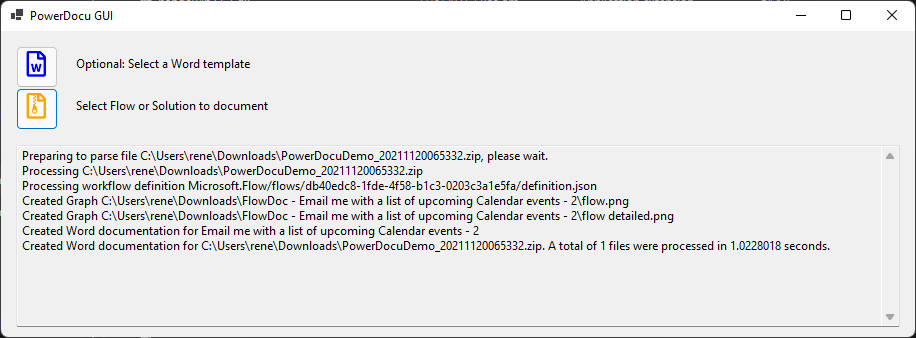
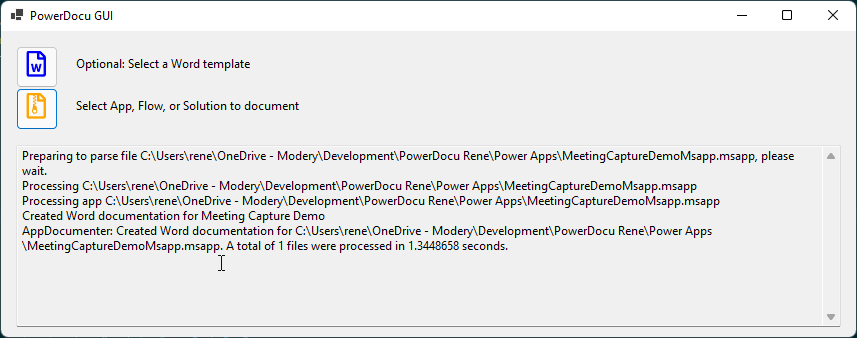
Documentation for v.0.7.0

diff --git a/README.md b/README.md
@@ -1,15 +1,22 @@
 # PowerDocu
-After you have built a Flow in Power Automate, you may consider documenting it as to allow others to get a better understanding of how it works, to ensure that any specific configuration in it is kept somewhere else as well, or for other reasons. However, manually documenting the technical implementation can be quite time consuming.
+After you have built a Flow in Power Automate or a canvas app in Power Apps, you may consider documenting it as to allow others to get a better understanding of how it works, to ensure that any specific configuration in it is kept somewhere else as well, or for other reasons. However, manually documenting the technical implementation can be quite time consuming.
 
-This is where **FlowDocumenter** can help!
+This is where **PowerDocu** can help!
 
-Currently, this repository contains a solution to document Power Automate Flows, called **FlowDocumenter**. FlowDocumenter allows the automatic generation of technical documentation based on a provided exported Flow package or an exported Solution package.
+PowerDocu contains two console applications called **FlowDocumenter** and **AppDocumenter**, as well as a graphical user interface to easily perform documentations. FlowDocumenter allows the automatic generation of technical documentation based on a provided exported Flow package or an exported Solution package, and AppDocumenter does the same for exported Power Apps canvas app. The GUI application handles both types.
 
 ![PowerDocu.GUI](Images/PowerDocu.GUI.png)
 
-![Example of generated Word documentation](Images/Weather-Flow-Documentation-1.png)
-![Example of generated Word documentation](Images/Weather-Flow-Documentation-2.png)
+**Example of a documented Flow:**
 
+![Example of generated Flow Word documentation](Images/Weather-Flow-Documentation-1.png)
+![Example of generated Flow Word documentation](Images/Weather-Flow-Documentation-2.png)
+
+**Example of a documented Power App:**
+
+![Example of generated app Word documentation](Images/MeetingCaptureApp-Documentation-1.png)
+![Example of generated app Word documentation](Images/MeetingCaptureApp-Documentation-2.png)
+![Example of generated app Word documentation](Images/MeetingCaptureApp-Documentation-3.png)
 
 ## What is generated as part of the technical documentation?
 
@@ -24,19 +31,35 @@ The documentation for each Flow includes
 2. PNG and SVG renditions of the high-level and details diagrams
 
 
-> **_NOTE:_** FlowDocumenter is currently in a **very early development stage**! It offers basic functionality, but has a lot of room for improvement. If you find any bugs or other issues, please log an **[Issue](https://github.com/modery/PowerDocu/issues)** in this GitHub project. For any improvement recommendations and suggestions, please open a **[Discussion](https://github.com/modery/PowerDocu/discussions)**. Most importantly, if you want to contribute to this project's code, please fork this repository and submit appropriate Pull Requests. **Any kind of contribution is more than welcome!**
+The documentation for each canvas app includes
+
+1. A generated Word document including sections on
+    1. General information of the app and its properties
+    2. The global variables and collections used in the app (and in which controls they are used)
+    3. The Data Sources used
+    4. The Resources used
+    5. An overview of the various screens inside the app and the controls inside them
+    6. A detailed list of all controls, together with all their properties
+
+The documentation for a solution includes
+
+1. Generated Word documents for each app inside the solution
+2. Generated Word documents for each Flow inside the solution
+
+
+> **_NOTE:_** AppDocumenter is currently in a **very early development stage**! It offers basic functionality, but has a lot of room for improvement. FlowDocumenter is considered to be mostly stable. If you find any bugs or other issues, please log an **[Issue](https://github.com/modery/PowerDocu/issues)** in this GitHub project. For any improvement recommendations and suggestions, please open a **[Discussion](https://github.com/modery/PowerDocu/discussions)**. Most importantly, if you want to contribute to this project's code, please fork this repository and submit appropriate Pull Requests. **Any kind of contribution is more than welcome!**
 
 ## How to use FlowDocumenter
 
-Please refer to [Installation & Usage](installation.md) for information on how to install FlowDocumenter and how to use it to generate documentation.
+Please refer to [Installation & Usage](installation.md) for information on how to install PowerDocu and how to use it to generate documentation.
 
 ## How does the generated documentation look like?
 
 Please have a look at the [examples](examples/examples.md) provided.
 
-## How can I help to improve FlowDocumenter?
+## How can I help to improve PowerDocu?
 
-FlowDocumenter is in a very early development stage at the moment. If you think of ways to improve it, here are some things that you can do:
+If you can think of ways to improve it, here are some things that you can do:
 1. If it is not working properly or if you find a bug, please log a detailed [Issue](https://github.com/modery/PowerDocu/issues)
 2. If you have a suggestion on what could be added or what could be done better, please add it under **[Discussions](https://github.com/modery/PowerDocu/discussions)**. Also, please have a look at the existing discussions and add any comments you may have
 3. Found some ugly code that should be improved? Got an idea for some additional functionality and want to implement it yourself? Please create a fork of this repo, make your changes, and submit a Pull Request!

diff --git a/installation.md b/installation.md
@@ -1,10 +1,10 @@
-# PowerDocu FlowDocumenter Installation & Usage
+# PowerDocu Installation & Usage
 
-Please review the steps below to start using **FlowDocumenter**. Also, please note that the current version has only been tested on Windows.
+Please review the steps below to start using **PowerDocu**. Also, please note that the current version has only been tested on Windows.
 
 ## Requirements
 
-FlowDocumenter has been tested on Windows only. It is running on .NET 5.0
+PowerDocu has been tested on Windows only. It is running on .NET 5.0
 
 ## Download the latest Release
 Download the latest release from (https://github.com/modery/PowerDocu/releases). Currently, two versions are provided as part of the releases:
@@ -21,7 +21,7 @@ To retrieve the latest list of connector details and icons, simply run the Power
 
 You do not need to run this script everytime before you generate documentation. After a first, initial run you would only need to run it again if there are new connectors available that you use inside your Flow.
 
-## Export the Flow you want to document
+## Export the Flow, App, or Solution you want to document
 To generate documentation for a Flow, you need to export it from the web as a ZIP package. 
 
 1. Open your Flow's detail page
@@ -30,29 +30,41 @@ To generate documentation for a Flow, you need to export it from the web as a ZI
 3. Provide a name for the file and export the package
 ![Export Flow](Images/Export-Flow-Package.png)
 
-## Run FlowDocumenter
+To generate documentation for a Power Apps canvas app, you need to export it from the web as a .msapp package. 
 
-You can run FlowDocumenter by either using the PowerDocu.GUI Windows application or the PowerDocu.FlowDocumenter console application. Both applications generate the same set of documentation:
+1. Open your Power Apps canvas app
+2. Select *File* and *Save As*, then choose *This Computer*
+![Export app](Images/Export-App-Package.png)
+3. The exported package will be downloaded to your computer
+
+## Run PowerDocu FlowDocumenter & AppDocumenter
+
+You can run FlowDocumenter & AppDocumenter by either using the PowerDocu.GUI Windows application, or the PowerDocu.FlowDocumenter/PowerDocu.AppDocumenter console application respectively. Both applications generate the same set of documentation, but using the PowerDocu.GUI application allows you to generate documentation for apps and Flows contained inside a solution in one run.
 
 **Flow Package**
 
 A new folder will be created within the current folder, using the exported Flow's name as folder name. Inside this folder you can find the generated diagrams as well as the generated documentation
-![Email me with a list of upcoming Calendar events](Images/PowerDocu.FlowDocumenter-generated-output.png)
+![Email me with a list of upcoming Calendar events documentation](Images/PowerDocu.FlowDocumenter-generated-output.png)
+
+**App Package**
+
+A new folder will be created within the current folder, using the exported Apps's name as folder name. Inside this folder you can find the generated documentation
+![Meeting capture docu](Images/PowerDocu.AppDocumenter-generated-output.png)
 
 **Solution Package**
 
-A folder with the Solution package file's name will be created, and each individual Flow will be processed and its generated files stored inside this folder
-![Email me with a list of upcoming Calendar events](Images/Solution-CoEStartKit-AuditComponents.png)
+A folder with the Solution package file's name will be created, and each individual Flow and Power app will be processed and its generated files stored inside this folder
+![audit components](Images/Solution-CoEStartKit-AuditComponents.png)
 
 ### Use the PowerDocu.GUI
 1. Open the PowerDocu.GUI.exe application
 2. Optionally, select a Word document (.docx) as template
-3. Select a Flow or Solution package to havve it converted
+3. Select a Flow, App or Solution package to havve it converted
 ![Execute FlowDocumenter](Images/PowerDocu.GUI.png)
 
-### Run the PowerDocu.FlowDocumenter console application
-1. Open a command prompt or PowerShell window in the folder that contains FlowDocumenter
-2. Execute FlowDocumenter and provide an exported Flow or Solution package as parameter. For example: *PowerDocu.FlowDocumenter.exe FlowPackage.zip*
+### Run the PowerDocu.FlowDocumenter/PowerDocu.AppDocumenter console application
+1. Open a command prompt or PowerShell window in the folder that contains FlowDocumenter and AppDocumenter
+2. Execute FlowDocumenter/AppDocumenter and provide an exported Solution, Flow or App package as parameter. For example: *PowerDocu.FlowDocumenter.exe FlowPackage.zip*, or *PowerDocu.AppDocumenter.exe AppPackage.msapp*
 3. To use a Word document (.docx) as template, use it as an additional parameter: *PowerDocu.FlowDocumenter.exe ExportedFlow.zip WordTemplate.docx*
 ![Execute FlowDocumenter](Images/PowerDocu.FlowDocumenter-run.png)
 
